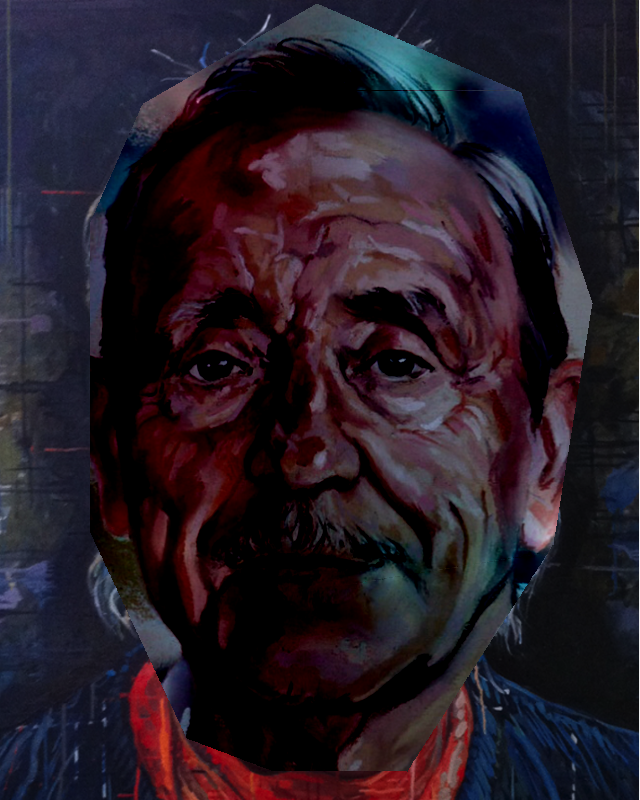
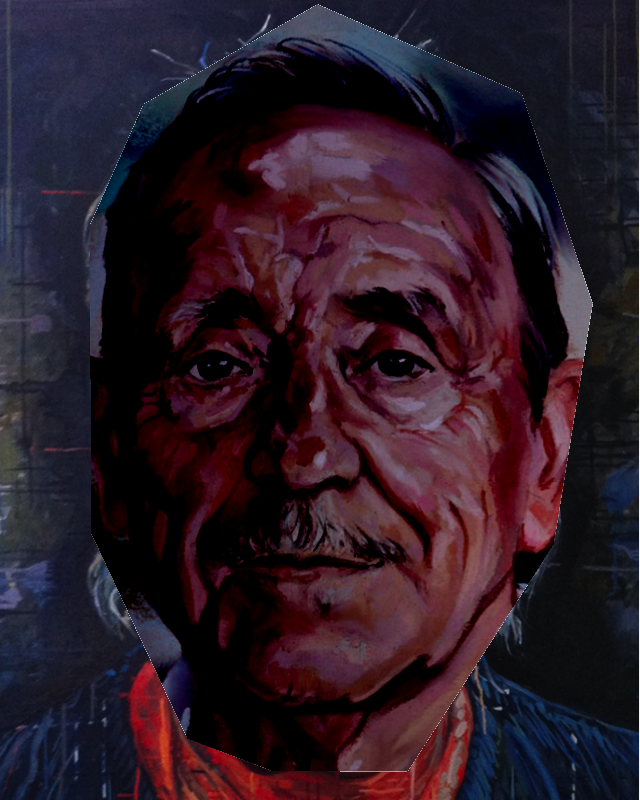
Add mesh optimization

diff --git a/mvc.py b/mvc.py
@@ -1,7 +1,9 @@
 import cv2
 import numpy as np 
 import matplotlib.pyplot as plt
+import matplotlib.tri as mtri
 from tqdm import tqdm
+from adaptmesh import triangulate
 
 def boundedPoint(selectedPoints):
     lineVecs = selectedPoints[1:] - selectedPoints[:-1]
@@ -54,13 +56,65 @@ def blend(selectedPoints, srcImg, dstImg):
 
     return dstImg
 
+def blendOptimized(selectedPoints, srcImg, dstImg):
+    selectedPoints = np.array(selectedPoints)
+    m = triangulate(selectedPoints)
+    print(f'There are {m.p.shape[1]} verticies')
+    print(f'There are {m.t.shape[1]} tringular')
+
+    points = m.p.astype(int)
+    triangles = m.t.transpose()
+
+    row, col = points[1], points[0]
+    roiPosMat = np.column_stack((row, col)) # K x 1 matrix
+    boundMat = np.array(selectedPoints) # M x 1 matrix
+
+    # MVC.shape = (N, M-1)
+    M = len(boundMat)
+    N = len(roiPosMat)
+    MVC = np.zeros((N, M), dtype=np.float32)
+    for i, pos in enumerate(roiPosMat):
+        v1 = boundMat - pos
+        v2 = np.roll(v1, -1, axis=0)
+        cosAng = np.einsum('ij,ij->i', v1, v2) / (np.linalg.norm(v1, axis=1) * np.linalg.norm(v2, axis=1))
+        ang = np.nan_to_num(np.arccos(cosAng))
+        tanHalfAng = np.tan(ang/2.0)
+
+        w_numerator = tanHalfAng + np.roll(tanHalfAng, 1, axis=0)
+        w_denominator = np.linalg.norm(v1)
+
+        MVC[i] = np.nan_to_num(w_numerator / w_denominator)
+        MVC[i] = MVC[i] / MVC[i].sum()
+
+    offset = np.array([(dstImg.shape[0] - srcImg.shape[0]) // 2, (dstImg.shape[1] - srcImg.shape[1]) // 2])
+    print(f'offset: {offset}')
+
+    # diff.shape = (M-1, 3)
+    diff = dstImg[boundMat[:,1] + offset[0],boundMat[:,0] + offset[1]].astype(np.float32) - srcImg[boundMat[:,1],boundMat[:,0]].astype(np.float32)
+    # r.shape = (K, 3)
+    r = MVC @ diff
+
+    polygonMask = np.zeros_like(dstImg)
+    cv2.fillPoly(polygonMask, [selectedPoints], (255, 255, 255))
+    row, col = np.where(np.all(polygonMask == (255, 255, 255), axis=-1))
+    roiValueMat = srcImg[row, col]
+    
+    triang = mtri.Triangulation(points[0], points[1], triangles)
+    for channel in range(3):
+        interp_lin = mtri.LinearTriInterpolator(triang, r[:,channel])
+        zi_lin = interp_lin(col, row)
+        dstImg[row+offset[0], col+offset[1], channel] = np.minimum(np.maximum(roiValueMat[:,channel] + zi_lin, 0), 255)
+
+    return dstImg
+
 if __name__ == "__main__":
     selectedPoints = [[187, 738], [91, 533], [90, 224], [143, 104], [317, 4], [521, 93], [592, 303], [553, 544], [407, 771], [271, 770], [187, 738]]
+    selectedPoints2 = [[187, 738], [91, 533], [90, 224], [143, 104], [317, 4], [521, 93], [592, 303], [553, 544], [407, 771], [271, 770]]
     srcImg = cv2.imread("./image/style1.png")
     dstImg = cv2.imread("./image/style2.png")
     print('src:', srcImg.shape, 'dst:', dstImg.shape)
-    ret = blend(selectedPoints, srcImg, dstImg)
+
+    # ret = blend(selectedPoints, srcImg, dstImg)
+    ret = blendOptimized(selectedPoints2, srcImg, dstImg)
     cv2.imwrite("image/result.png", ret)
-    # plt.imshow(ret)
-    # plt.show()
         
